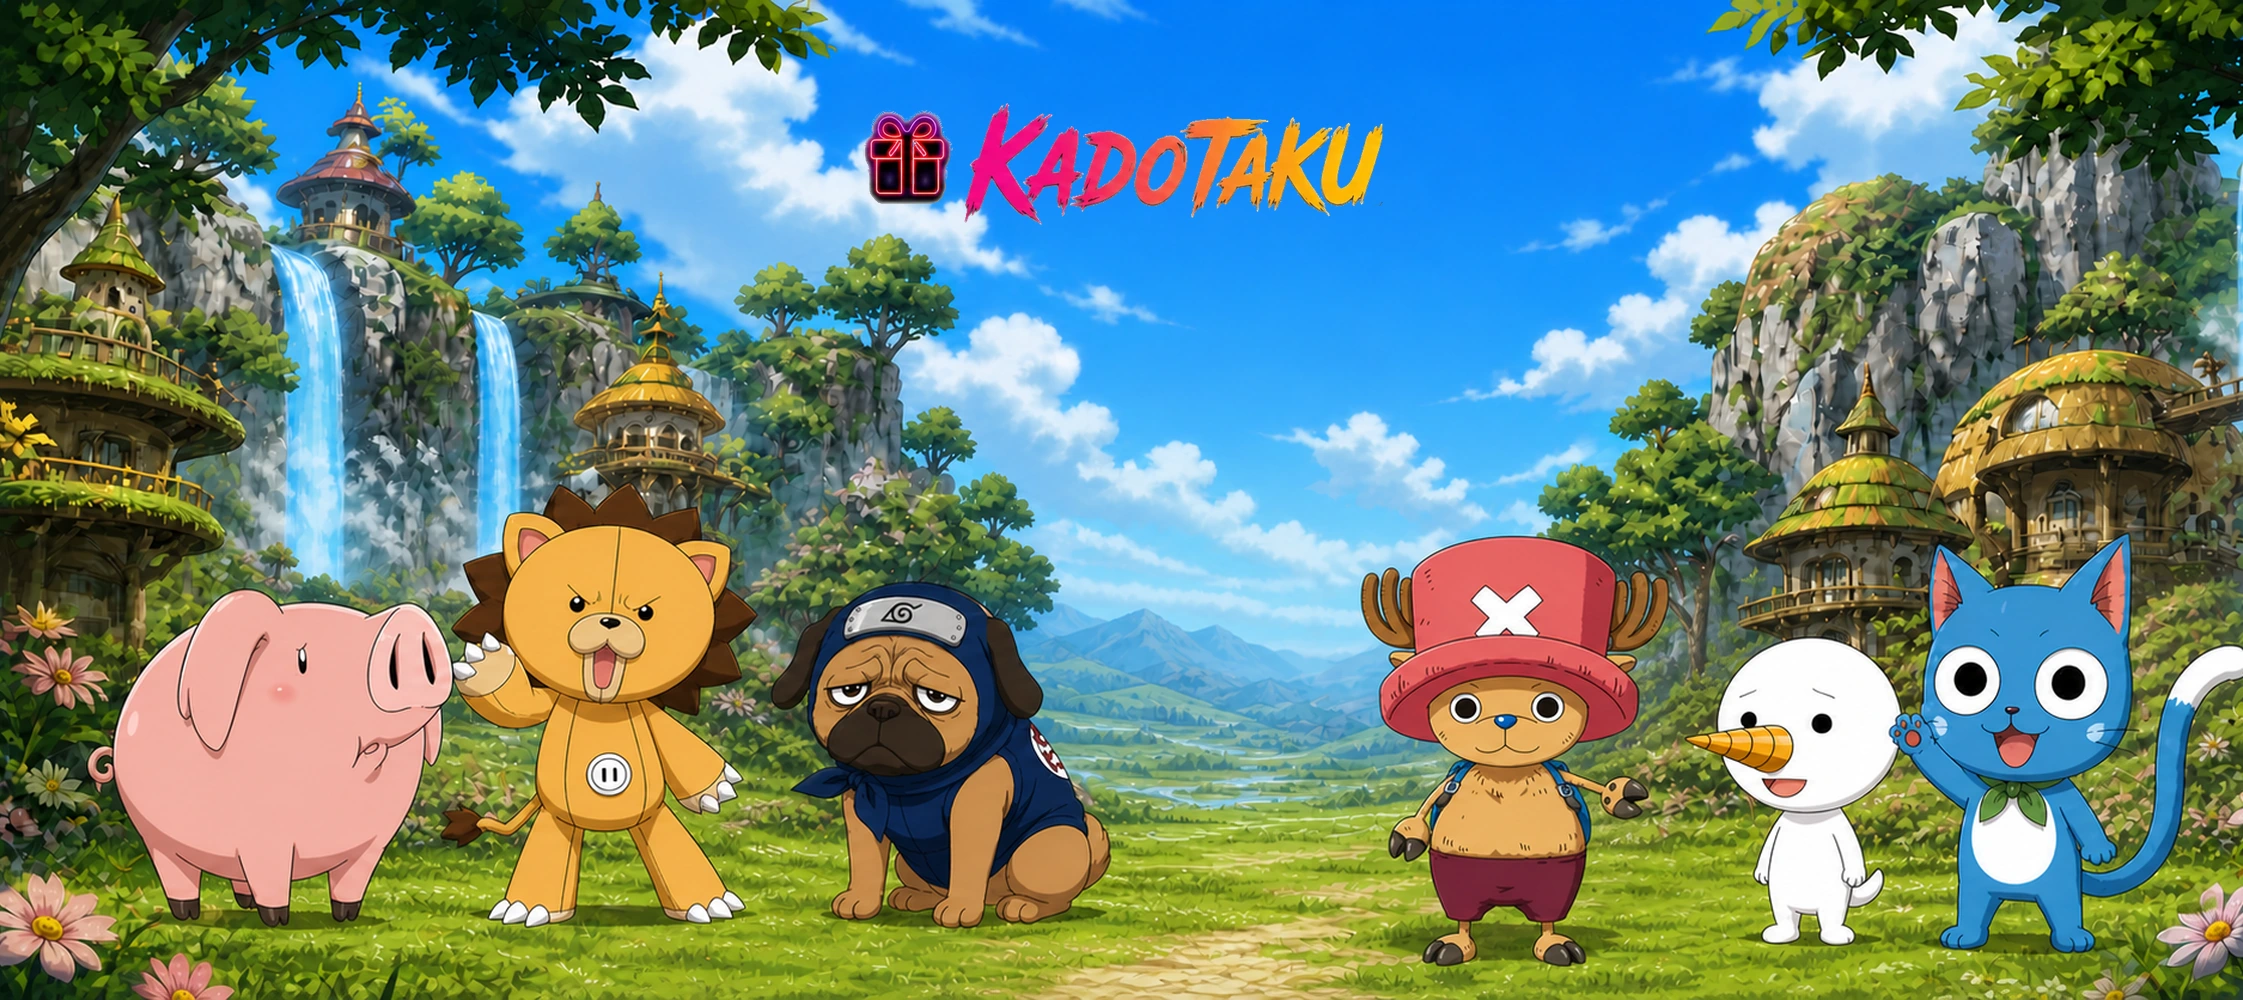
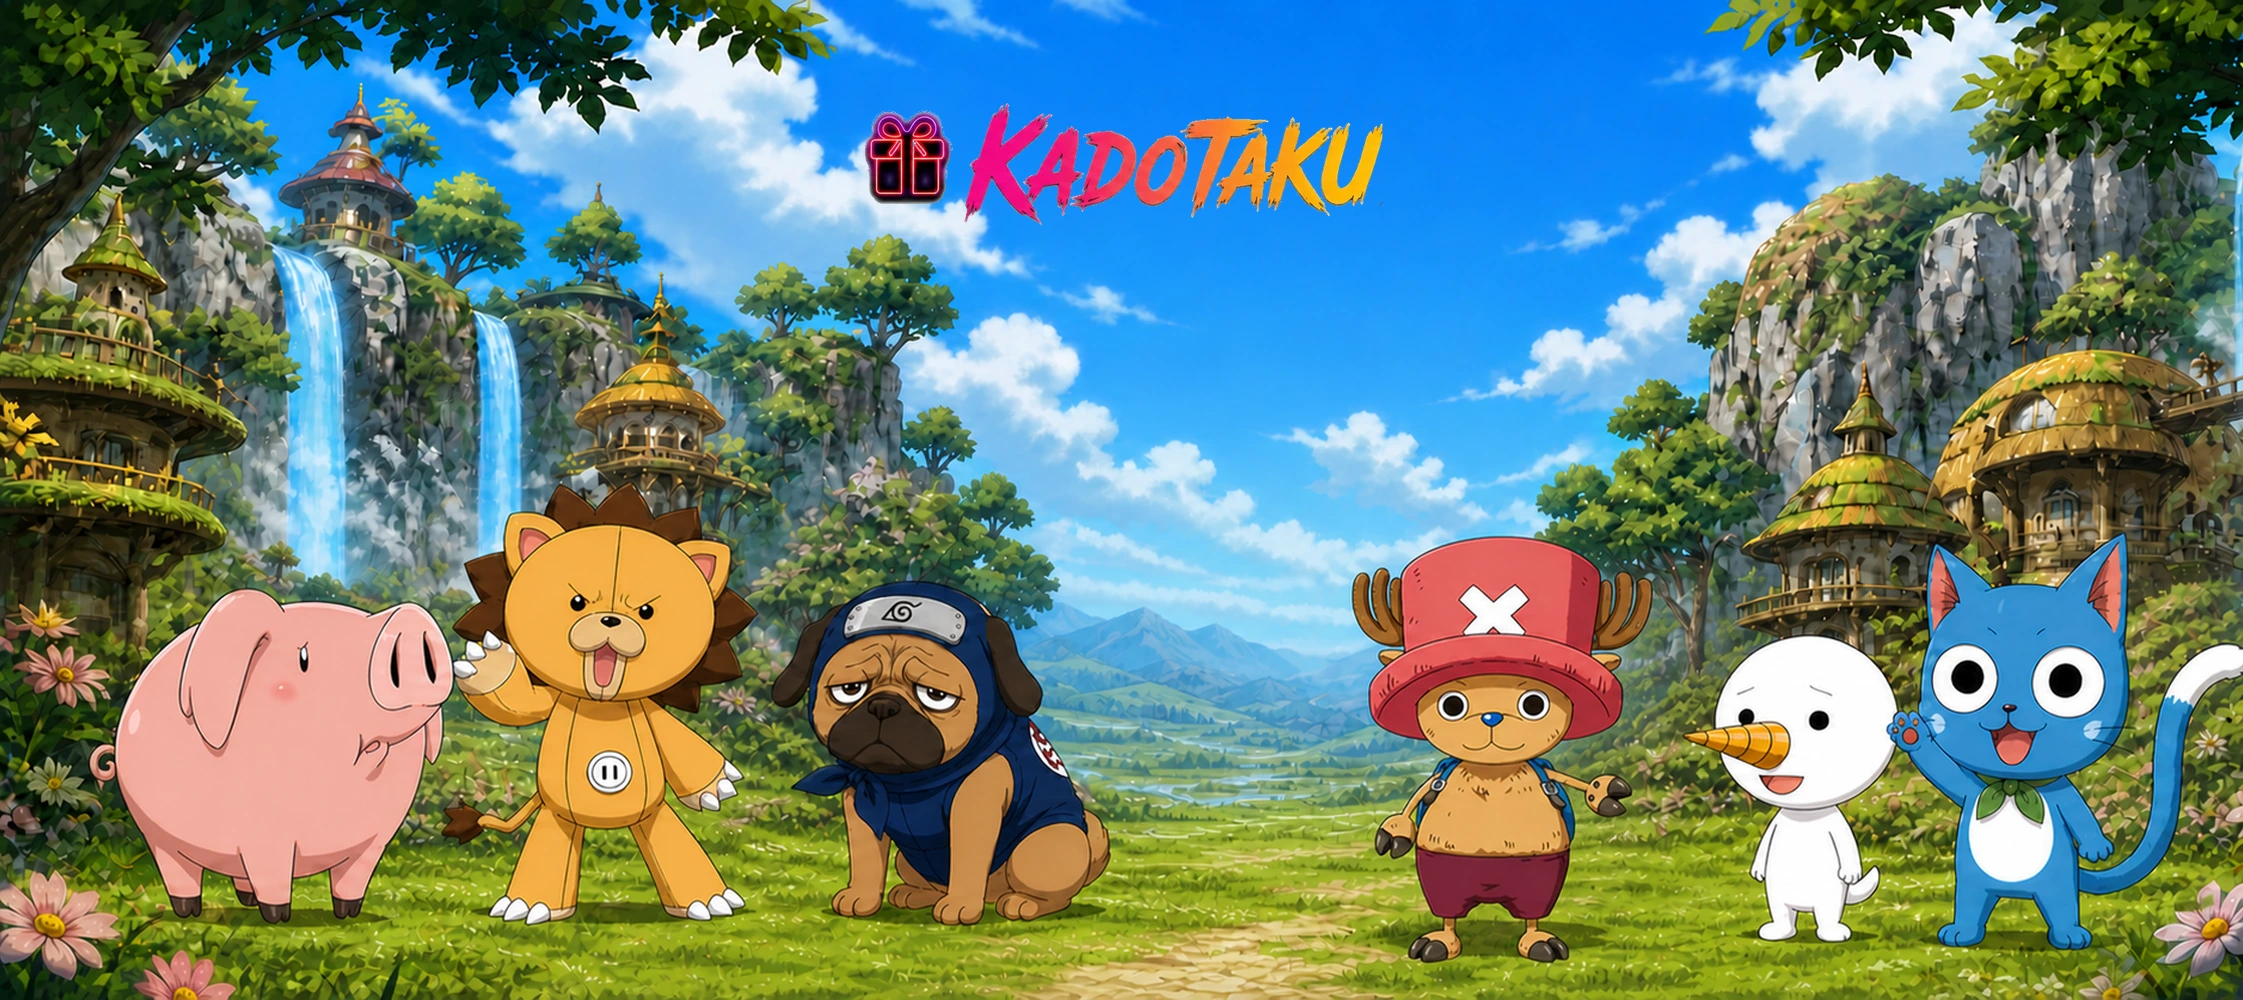
Ajoute les nouveaux bandeaux anime

diff --git a/app.js b/app.js
@@ -1,4 +1,4 @@
-const API_URL =
+const API_URL =
 "https://kadotaku-backend-production.up.railway.app";
 
 const animeSheetURL =
@@ -308,7 +308,7 @@ const HERO_BANNER_VARIANTS = {
             "hawk_kon_v2",
             "hawk-kon-v2",
             "Hawk / Kon — V2",
-            "20260809-hawk-kon-v2-5"
+            "20260811-hawk-kon-v2-complet-chopper-1"
         ),
         createHeroBannerVariant(
             "anime",
@@ -323,6 +323,69 @@ const HERO_BANNER_VARIANTS = {
             "miyu-ondine",
             "Miu / Ondine",
             "20260809-miyu-ondine-4"
+        ),
+        createHeroBannerVariant(
+            "anime",
+            "lala_misa",
+            "lala-misa",
+            "Lala / Misa",
+            "20260813-lala-misa-torso-6"
+        ),
+        createHeroBannerVariant(
+            "anime",
+            "shirahoshi_mizuho",
+            "shirahoshi-mizuho",
+            "Shirahoshi / Mizuho",
+            "20260813-shirahoshi-mizuho-zoom-6"
+        ),
+        createHeroBannerVariant(
+            "anime",
+            "yamcha_leorio",
+            "yamcha-leorio",
+            "Yamcha / Leorio",
+            "20260813-yamcha-leorio-framing-4"
+        ),
+        createHeroBannerVariant(
+            "anime",
+            "tsubasa_joe",
+            "tsubasa-joe",
+            "Tsubasa / Joe",
+            "20260814-tsubasa-joe-open-5"
+        ),
+        createHeroBannerVariant(
+            "anime",
+            "serena_dawn",
+            "serena-dawn",
+            "Serena / Dawn",
+            "20260814-serena-dawn-right-zoom-4"
+        ),
+        createHeroBannerVariant(
+            "anime",
+            "echidna_merlin",
+            "echidna-merlin",
+            "Echidna / Merlin",
+            "20260814-echidna-merlin-mirajane-5"
+        ),
+        createHeroBannerVariant(
+            "anime",
+            "san_chihiro",
+            "san-chihiro",
+            "San / Chihiro",
+            "20260814-san-chihiro-bodies-inward-5"
+        ),
+        createHeroBannerVariant(
+            "anime",
+            "nadia_saphir",
+            "nadia-saphir",
+            "Nadia / Princesse Saphir",
+            "20260814-nadia-saphir-actarus-arm-6"
+        ),
+        createHeroBannerVariant(
+            "anime",
+            "videl_nobara",
+            "videl-nobara",
+            "Videl / Nobara",
+            "20260814-videl-nobara-rebuilt-4"
         )
     ],
     game: [
@@ -373,6 +436,14 @@ const MOBILE_HERO_FRAMING_PROFILES = {
     "anime:hawk-kon-v2": { cropWidth: 1060, focusX: 1010 },
     "anime:tamaki-shana": { cropWidth: 1120, focusX: 1040 },
     "anime:miyu-ondine": { cropWidth: 1080, focusX: 1008 },
+    "anime:lala-misa": { cropWidth: 1080, focusX: 1008 },
+    "anime:shirahoshi-mizuho": { cropWidth: 1080, focusX: 1008 },
+    "anime:yamcha-leorio": { cropWidth: 1080, focusX: 1008 },
+    "anime:tsubasa-joe": { cropWidth: 1080, focusX: 1008 },
+    "anime:serena-dawn": { cropWidth: 1080, focusX: 1008 },
+    "anime:echidna-merlin": { cropWidth: 1080, focusX: 1008 },
+    "anime:san-chihiro": { cropWidth: 1080, focusX: 1008 },
+    "anime:nadia-saphir": { cropWidth: 1080, focusX: 1008 },
     "game:defaut": { cropWidth: 1100, focusX: 1010 },
     "game:kazuha-heizou": { cropWidth: 1080, focusX: 1008 }
 };
@@ -3906,6 +3977,8 @@ function prepareInitialProductRoute(){
 }
 
 function renderInitialProductsBeforeMenus(){
+
+    captureStaticLicenceSeoContent();
 
     if(isHomeRoute()){
         return;
@@ -9648,6 +9721,8 @@ document.addEventListener(
 );
 
 document.addEventListener("DOMContentLoaded", function () {
+    captureStaticLicenceSeoContent();
+
     placeFavoritesButtonForViewport();
 
     ensureHeroDisplayControls();

diff --git a/index.html b/index.html
@@ -472,7 +472,7 @@ content="Découvrez les meilleures idées cadeaux anime et manga : figurines, go
 
 </div>
 
-<script src="/app.js?v=20260813-mobile-hero-framing-1"></script>
+<script src="/app.js?v=20260814-banners-sync-1"></script>
 
 </body>
 </html>
